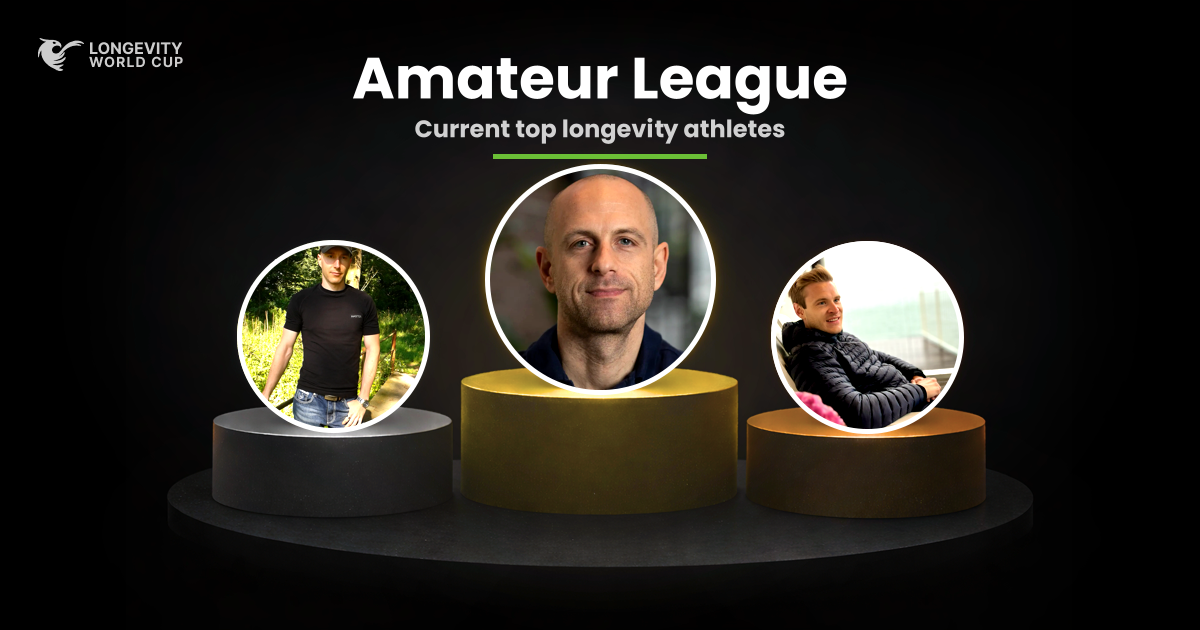
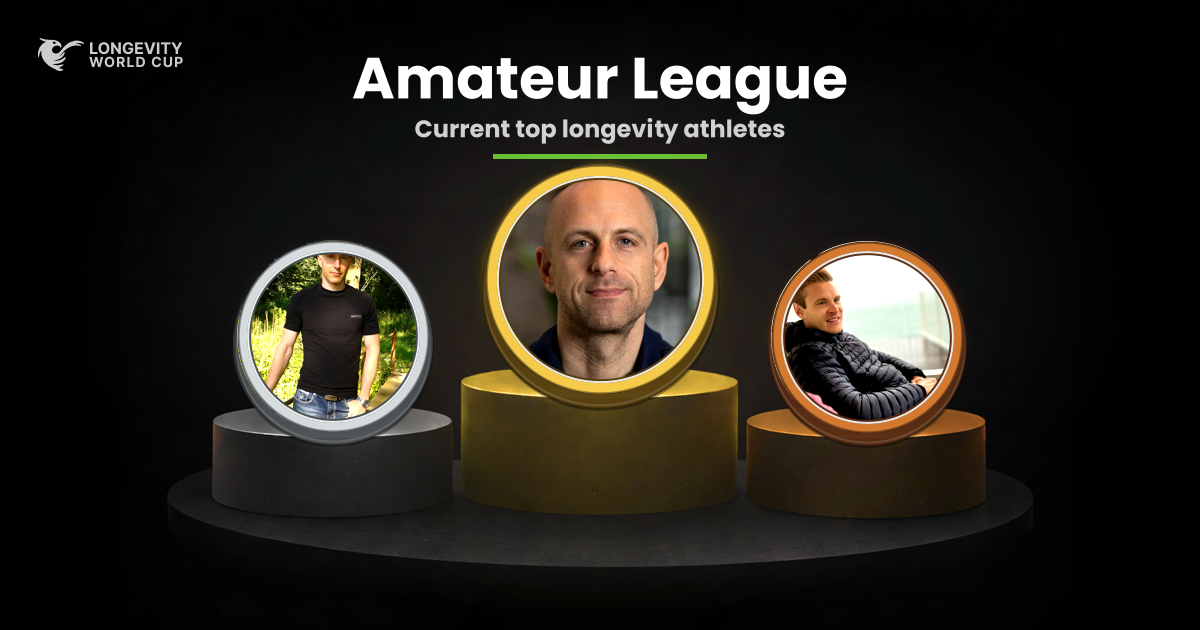
Add depth to league podium portraits

Changed region(s): [[0.4008, 0.2413, 0.8325, 0.7238], [0.185, 0.3619, 0.37, 0.7238]]

diff --git a/LongevityWorldCup.Website/Business/LeagueOgImageService.cs b/LongevityWorldCup.Website/Business/LeagueOgImageService.cs
@@ -23,6 +23,12 @@ public sealed class LeagueOgImageService
     private static readonly Color AccentColor = ParseHex("78DA3B");
     private static readonly Color EmptySlotFillColor = new(new Rgba32(18, 21, 23, 218));
     private static readonly Color EmptySlotTextColor = new(new Rgba32(255, 255, 255, 190));
+    private static readonly Color GoldRimColor = new(new Rgba32(247, 203, 74, 255));
+    private static readonly Color GoldDepthColor = new(new Rgba32(86, 62, 15, 245));
+    private static readonly Color SilverRimColor = new(new Rgba32(214, 219, 222, 255));
+    private static readonly Color SilverDepthColor = new(new Rgba32(75, 80, 82, 245));
+    private static readonly Color BronzeRimColor = new(new Rgba32(211, 122, 48, 255));
+    private static readonly Color BronzeDepthColor = new(new Rgba32(86, 43, 18, 245));
 
     // Slot centers and diameters matched to the league OG podium template.
     private static readonly Slot[] PodiumSlots =
@@ -31,9 +37,9 @@ public sealed class LeagueOgImageService
         // gold: x=495 y=174 w=210 h=210
         // silver: x=248 y=250 w=171 h=171
         // bronze: x=782 y=251 w=171 h=171
-        new Slot(600, 279, 230), // #1 center
-        new Slot(333, 336, 192), // #2 left
-        new Slot(867, 337, 192)  // #3 right
+        new Slot(600, 279, 230, GoldRimColor, GoldDepthColor), // #1 center
+        new Slot(333, 336, 192, SilverRimColor, SilverDepthColor), // #2 left
+        new Slot(867, 337, 192, BronzeRimColor, BronzeDepthColor)  // #3 right
     ];
 
     private static readonly IReadOnlyDictionary<string, string> LeagueDisplayNames =
@@ -82,7 +88,7 @@ public sealed class LeagueOgImageService
         IReadOnlyList<string> Top3Names,
         string Signature);
 
-    private readonly record struct Slot(int CenterX, int CenterY, int Diameter);
+    private readonly record struct Slot(int CenterX, int CenterY, int Diameter, Color RimColor, Color DepthColor);
     public bool IsConfigured => File.Exists(_templatePath) && File.Exists(_fontPath);
 
     public static bool TryNormalizeLeagueSlug(string? raw, out string slug)
@@ -318,7 +324,9 @@ public sealed class LeagueOgImageService
 
     private static void DrawEmptySlot(Image<Rgba32> target, Slot slot, FontFamily? fontFamily)
     {
-        var radius = (slot.Diameter / 2f) - 7f;
+        var radius = slot.Diameter / 2f;
+        var rimWidth = GetMedallionRimWidth(slot);
+        DrawMedallionBase(target, slot);
         target.Mutate(ctx =>
         {
             ctx.SetGraphicsOptions(new GraphicsOptions
@@ -326,7 +334,8 @@ public sealed class LeagueOgImageService
                 Antialias = true,
                 AntialiasSubpixelDepth = 16
             });
-            ctx.Fill(EmptySlotFillColor, new EllipsePolygon(slot.CenterX, slot.CenterY, radius));
+            ctx.Fill(EmptySlotFillColor, new EllipsePolygon(slot.CenterX, slot.CenterY, radius - rimWidth - 1f));
+            DrawMedallionRim(ctx, slot, radius);
         });
 
         if (fontFamily is null)
@@ -347,6 +356,8 @@ public sealed class LeagueOgImageService
     private static void DrawCircularProfile(Image<Rgba32> target, Image<Rgba32> source, Slot slot)
     {
         var renderSize = Math.Max(1, slot.Diameter);
+        var radius = renderSize / 2f;
+        DrawMedallionBase(target, slot);
         source.Mutate(ctx => ctx.Resize(new ResizeOptions
         {
             Size = new Size(renderSize, renderSize),
@@ -381,9 +392,56 @@ public sealed class LeagueOgImageService
         target.Mutate(ctx =>
         {
             ctx.DrawImage(source, new Point(x, y), 1f);
-            ctx.Draw(Color.White, 5f, new EllipsePolygon(slot.CenterX, slot.CenterY, (slot.Diameter / 2f) - 2f));
+            DrawMedallionRim(ctx, slot, radius);
         });
     }
+
+    private static void DrawMedallionBase(Image<Rgba32> target, Slot slot)
+    {
+        var radius = slot.Diameter / 2f;
+        var depth = GetMedallionDepth(slot);
+        using var shadow = new Image<Rgba32>(CanvasWidth, CanvasHeight, Color.Transparent);
+        shadow.Mutate(ctx =>
+        {
+            ctx.SetGraphicsOptions(new GraphicsOptions
+            {
+                Antialias = true,
+                AntialiasSubpixelDepth = 16
+            });
+            ctx.Fill(new Rgba32(0, 0, 0, 138), new EllipsePolygon(
+                slot.CenterX,
+                slot.CenterY + (radius * 0.86f),
+                radius * 0.74f,
+                radius * 0.15f));
+            ctx.GaussianBlur(MathF.Max(7f, slot.Diameter * 0.035f));
+        });
+
+        target.Mutate(ctx =>
+        {
+            ctx.DrawImage(shadow, new Point(0, 0), 1f);
+            ctx.SetGraphicsOptions(new GraphicsOptions
+            {
+                Antialias = true,
+                AntialiasSubpixelDepth = 16
+            });
+            ctx.Fill(slot.DepthColor, new EllipsePolygon(slot.CenterX, slot.CenterY + depth, radius + 4f));
+            ctx.Draw(new Rgba32(255, 255, 255, 34), 2f, new EllipsePolygon(slot.CenterX, slot.CenterY + depth - 2f, radius + 2f));
+            ctx.Draw(new Rgba32(0, 0, 0, 96), 3f, new EllipsePolygon(slot.CenterX, slot.CenterY + depth + 1f, radius + 3f));
+        });
+    }
+
+    private static void DrawMedallionRim(IImageProcessingContext ctx, Slot slot, float radius)
+    {
+        var rimWidth = GetMedallionRimWidth(slot);
+        ctx.Draw(slot.DepthColor, rimWidth + 5f, new EllipsePolygon(slot.CenterX, slot.CenterY, radius - ((rimWidth + 5f) / 2f)));
+        ctx.Draw(slot.RimColor, rimWidth, new EllipsePolygon(slot.CenterX, slot.CenterY, radius - (rimWidth / 2f) - 1f));
+        ctx.Draw(new Rgba32(255, 255, 255, 230), 2f, new EllipsePolygon(slot.CenterX, slot.CenterY, radius - rimWidth - 2f));
+        ctx.Draw(new Rgba32(0, 0, 0, 95), 1.5f, new EllipsePolygon(slot.CenterX, slot.CenterY, radius - 1.5f));
+    }
+
+    private static float GetMedallionDepth(Slot slot) => MathF.Max(8f, slot.Diameter * 0.047f);
+
+    private static float GetMedallionRimWidth(Slot slot) => MathF.Max(8f, slot.Diameter * 0.045f);
 
     private FontFamily GetFontFamily()
     {
@@ -402,7 +460,7 @@ public sealed class LeagueOgImageService
         var top3ProfileTicks = top3Slugs.Select(GetProfileTicks).ToArray();
 
         var raw = string.Join("|",
-            "league-og-v31",
+            "league-og-v32",
             leagueSlug,
             leagueDisplayName,
             string.Join(",", top3Slugs),
